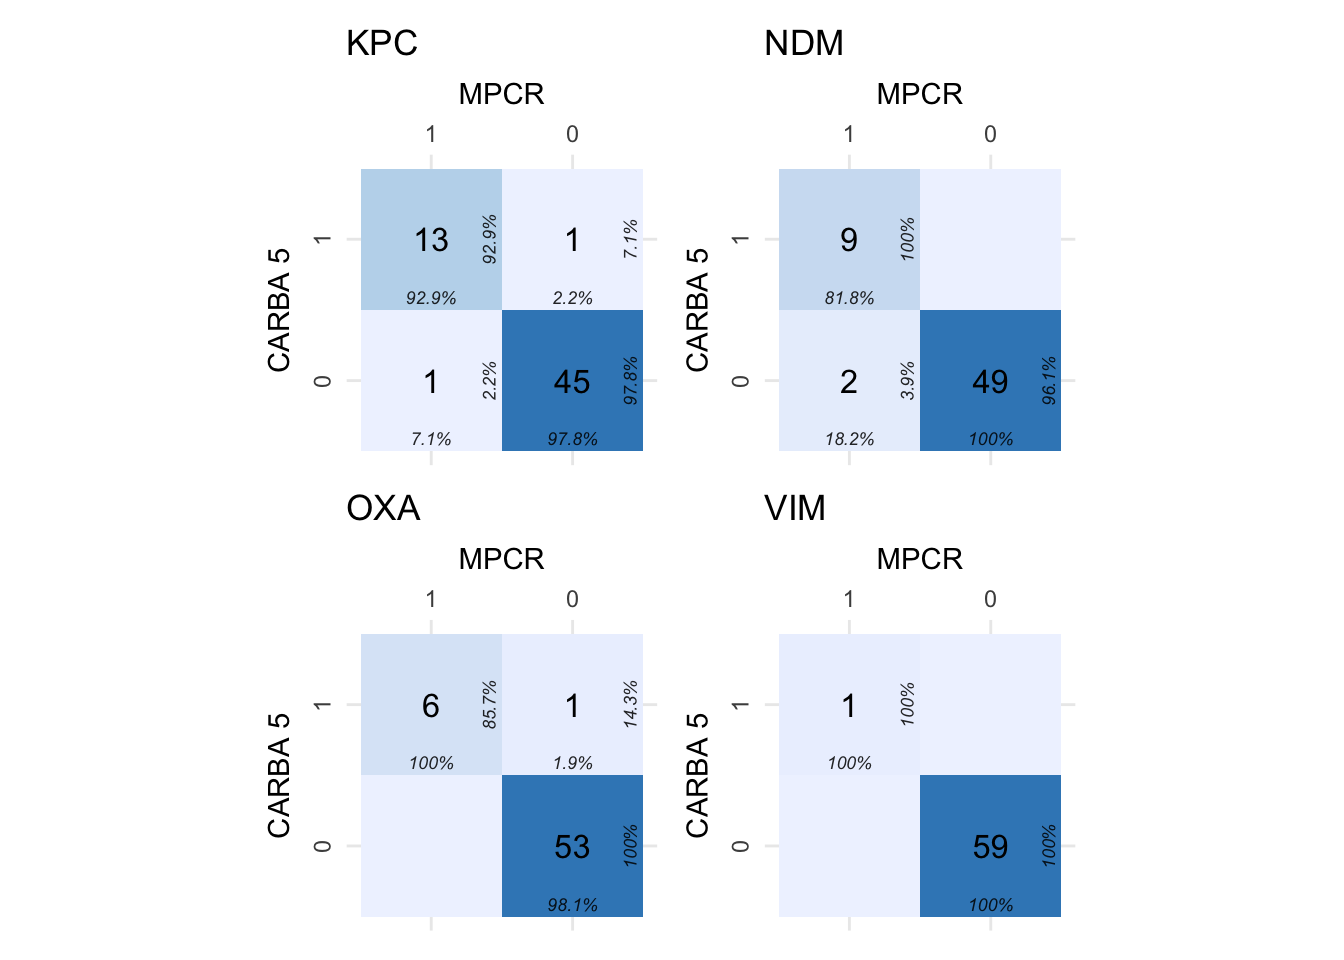
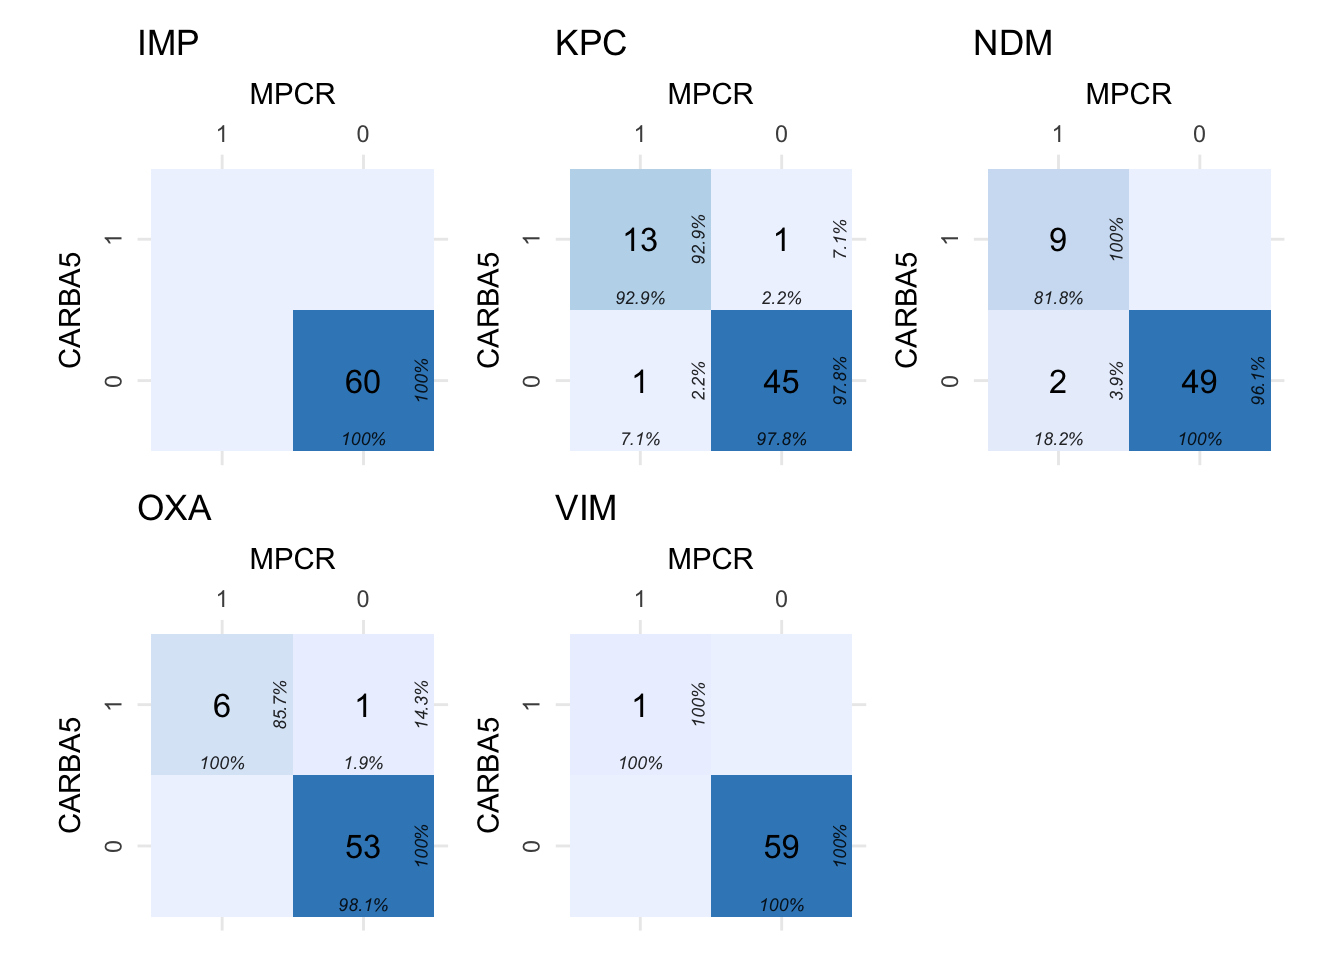
0321update

diff --git a/Carbapenemase.html b/Carbapenemase.html
@@ -95,8 +95,8 @@ ul.task-list li input[type="checkbox"] {
 </div>
 </div>
 </section>
-<section id="comparisons-between-4-different-methods" class="level1">
-<h1>Comparisons between 4 different methods</h1>
+<section id="comparisons-between-4-different-methods---mpcr-vs.-carba5" class="level1">
+<h1>Comparisons between 4 different methods - MPCR vs.&nbsp;CARBA5</h1>
 <div class="cell">
 <div class="cell-output-display">
 <table class="table table-sm table-striped">
